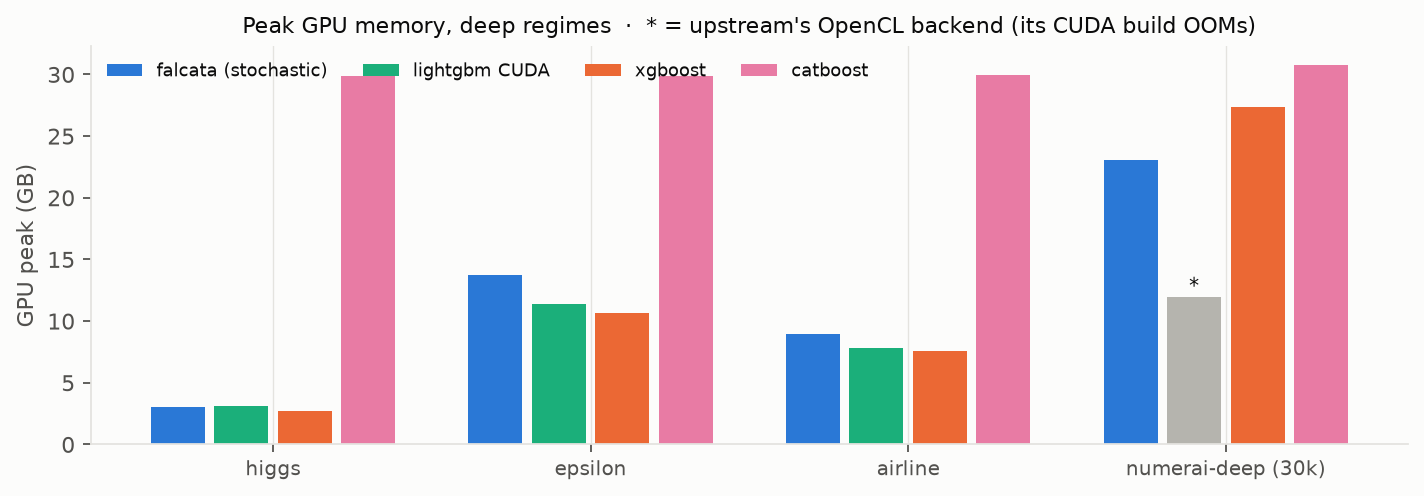
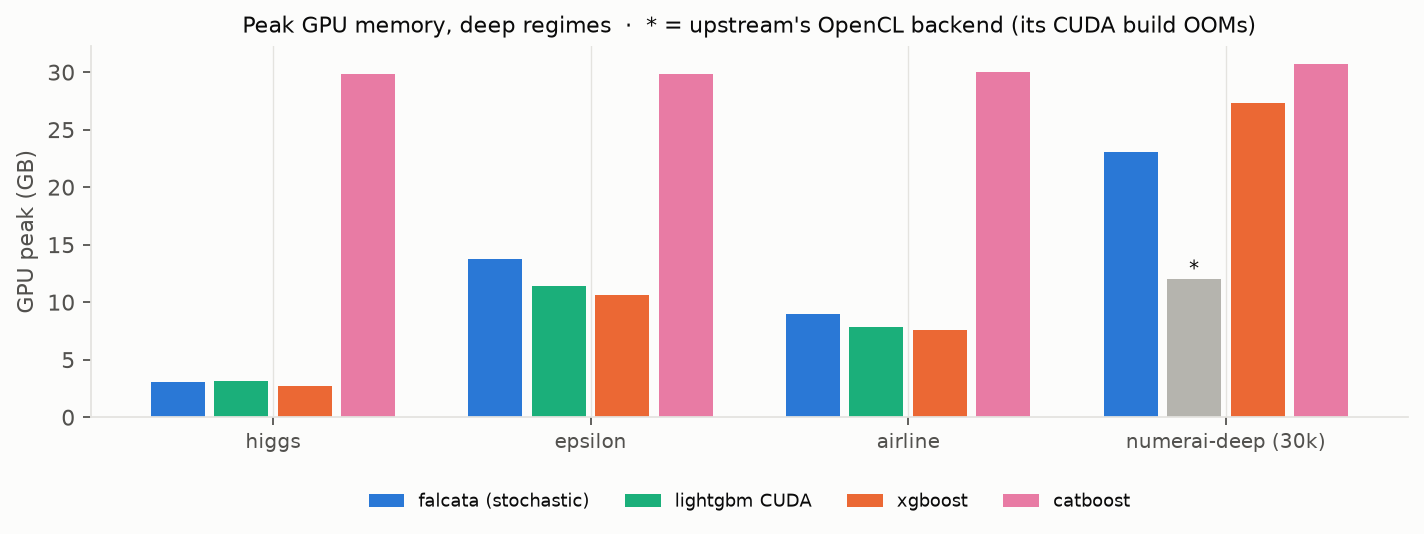
docs: fix two legend/colour problems in the performance plots
Peak GPU memory: catboost's ~30 GB bars ran through a legend that matplotlib
placed inside the axes. Moved it below the plot, where nothing can reach it.

Time-to-quality: five overlapping lines had two near-duplicate pairs --
falcata-fixedpoint's violet against falcata-stochastic's blue, and lightgbm's
aqua against falcata-noquant's green. Overridden to purple and brown for THIS
plot only; the bar charts keep the shared palette, where near-neighbour hues are
fine because every bar sits next to its own label. Also moved that legend to the
upper left, since the curves rise left-to-right and lightgbm CUDA -- slow enough
on epsilon to finish near 400s -- crossed a legend in the lower right, and
sorted both panels' legends so a colour maps to the same row in each.

diff --git a/docs/perf-plots/generate.py b/docs/perf-plots/generate.py
@@ -494,6 +494,17 @@ def plot_hybrid_diagram():
 
 
 # ---------------------------------------------------------------- 6. §9 time-to-quality
+# Overrides for the line plot ONLY. Bars sit side by side with a label under
+# each, so near-neighbours in hue read fine there; five overlapping lines with
+# no labels do not. These two pairs were the problem: falcata-fixed's violet
+# against falcata-stoch's blue, and lightgbm's aqua against falcata-noquant's
+# green. The bar charts keep the shared palette.
+CURVE_COLOR = {
+    "falcata-fixed": "#9467bd",  # purple, clear of the blue
+    "lightgbm": "#8c564b",  # brown, clear of the green
+}
+
+
 def plot_curves():
     fig, (ax1, ax2) = plt.subplots(1, 2, figsize=(12, 3.8))
     for ax, ds, reg in ((ax1, "higgs", "deep"), (ax2, "epsilon", "deep")):
@@ -508,13 +519,17 @@ def plot_curves():
             # clip the early ramp, but never a curve's FINAL value (an honest
             # quality dip must stay in frame)
             ymin = min(ymin, ys[len(ys) // 4], ys[-1] - 0.0008)
-            ax.plot(xs, ys, color=LIB_COLOR[lib], linewidth=2, label=LIB_LABEL[lib])
+            ax.plot(xs, ys, color=CURVE_COLOR.get(lib, LIB_COLOR[lib]), linewidth=2, label=LIB_LABEL[lib])
         ax.set_xscale("log")
         ax.set_ylim(bottom=ymin)
         ax.set_xlabel("wall time (s, log)")
         ax.set_ylabel("test AUC")
         ax.set_title(f"{ds} deep (500 trees)", fontsize=10)
-        ax.legend(fontsize=7.5, frameon=False, loc="lower right")
+        handles, labels = ax.get_legend_handles_labels()
+        order = sorted(range(len(labels)), key=lambda i: labels[i])
+        ax.legend(
+            [handles[i] for i in order], [labels[i] for i in order], fontsize=7.5, frameon=False, loc="upper left"
+        )
     fig.suptitle("Time-to-quality (eval every 25 iters; cross-library sweep)", fontsize=10, y=1.02)
     fig.tight_layout()
     fig.savefig(os.path.join(HERE, "time_to_quality.png"), bbox_inches="tight")
@@ -558,7 +573,7 @@ def plot_model_size():
 def plot_memory():
     libs = ["falcata-stoch", "lightgbm", "xgboost", "catboost"]
     drs = [("higgs", "deep"), ("epsilon", "deep"), ("airline", "deep"), ("numerai", "numerai-deep")]
-    fig, ax = plt.subplots(figsize=(9, 3.2))
+    fig, ax = plt.subplots(figsize=(9, 3.5))
     x = range(len(drs))
     w = 0.2
     for i, lib in enumerate(libs):
@@ -580,7 +595,9 @@ def plot_memory():
     ax.set_xticks(list(x), [DS_LABEL.get(dr, dr[0]) for dr in drs], fontsize=9)
     ax.set_ylabel("GPU peak (GB)")
     ax.set_title("Peak GPU memory, deep regimes  ·  * = upstream's OpenCL backend (its CUDA build OOMs)", fontsize=10)
-    ax.legend(fontsize=8, frameon=False, ncols=4)
+    # Below the axes, not floating inside them: the tallest bars (catboost on
+    # airline/numerai) ran straight through a legend placed automatically.
+    ax.legend(fontsize=8, frameon=False, ncols=4, loc="upper center", bbox_to_anchor=(0.5, -0.16))
     bar_ends(ax)
     fig.tight_layout()
     fig.savefig(os.path.join(HERE, "gpu_memory.png"), bbox_inches="tight")
